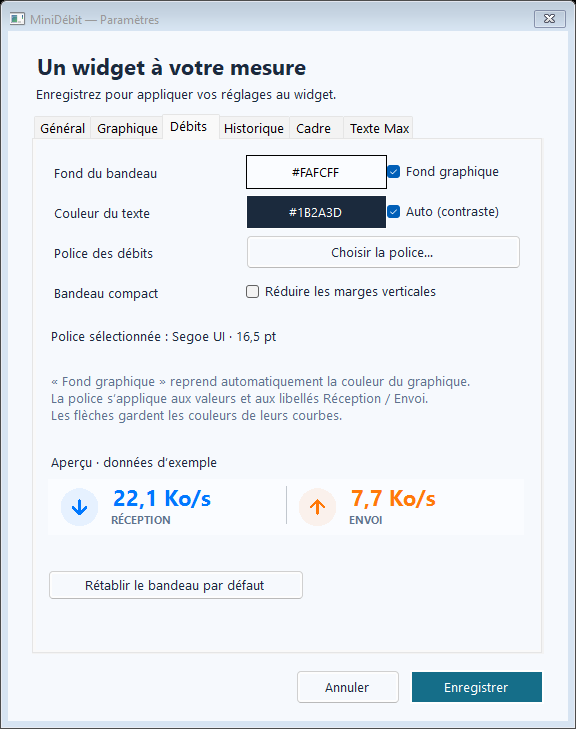
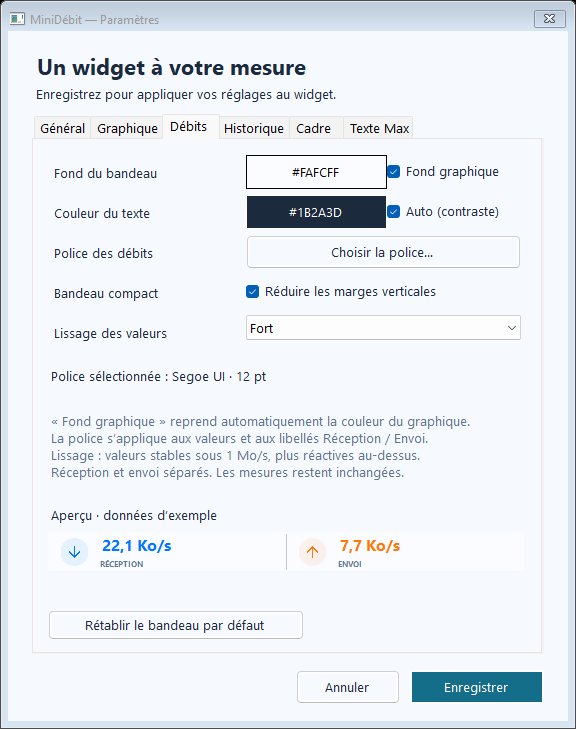
Ajoute le lissage et le profil initial
Intègre un profil de réglages par défaut et un lissage configurable des débits affichés, sans modifier les mesures. Ajuste aussi la largeur de l’axe aux graduations et documente ces changements.

diff --git a/Tests/Program.cs b/Tests/Program.cs
@@ -8,6 +8,37 @@ void Check(bool condition, string description)
     Console.WriteLine($"OK {++count:00} — {description}");
 }
 var now = DateTimeOffset.Now;
+var smooth = new RateSmoother();
+smooth.Update(new(now, 100, 50, 1), 1, true);
+Check(smooth.Down == 100 && smooth.Up == 50, "Le premier débit affiché ne part pas artificiellement de zéro");
+smooth.Update(new(now, 110, 55, 1), 1, true);
+Check(smooth.Down > 100 && smooth.Down < 110 && smooth.Up > 50 && smooth.Up < 55,
+    "Le lissage léger atténue les petites variations des deux débits");
+var fastRefresh = new RateSmoother(); fastRefresh.Update(new(now, 100, 50, 1), 1, true);
+for (int i = 0; i < 4; i++) fastRefresh.Update(new(now, 110, 55, .25), 1, true);
+Check(Math.Abs(fastRefresh.Down - smooth.Down) < .000001,
+    "Le lissage suit le temps réel : quatre mesures de 250 ms équivalent à une seconde");
+var strong = new RateSmoother(); strong.Update(new(now, 100, 50, 1), 3, true);
+strong.Update(new(now, 110, 55, 1), 3, true);
+Check(strong.Down < smooth.Down, "Le niveau fort stabilise davantage les petites transitions");
+strong.Update(new(now, 1000, 500, 1), 3, true);
+Check(strong.Down < 300 && strong.Up < 150, "Les sauts relatifs à faible débit ne court-circuitent plus le lissage fort");
+var adaptive = new RateSmoother(); adaptive.Update(new(now, 2_000_000, 100_000, 1), 3, true);
+adaptive.Update(new(now, 4_000_000, 200_000, 1), 3, true);
+Check(adaptive.Down > 3_400_000 && adaptive.Up < 110_000,
+    "Au-dessus de 1 Mo/s la réception réagit vite, sans accélérer un envoi faible");
+adaptive.Update(new(now, 0, 200_000, 1), 3, true);
+Check(adaptive.Down < 1_000_000, "La fin d’un gros transfert revient rapidement sous 1 Mo/s");
+var highFast = new RateSmoother(); highFast.Update(new(now, 2_000_000, 100_000, 1), 3, true);
+for (int i = 0; i < 4; i++) highFast.Update(new(now, 4_000_000, 200_000, .25), 3, true);
+Check(Math.Abs(highFast.Down - (2_000_000 + (1 - Math.Exp(-1 / .75)) * 2_000_000)) < .000001,
+    "La réactivité au-dessus du seuil reste indépendante de la fréquence des relevés");
+strong.Update(new(now, 800, 400, 1), 0, true);
+Check(strong.Down == 800 && strong.Up == 400, "Désactiver restitue immédiatement les mesures exactes");
+strong.Update(new(now, 800, 400, 1), 1, false);
+Check(strong.Down == 0 && strong.Up == 0, "Une interface indisponible remet les deux valeurs immédiatement à zéro");
+strong.Update(new(now, 30, 10, 1), 1, true);
+Check(strong.Down == 30 && strong.Up == 10, "La reconnexion reprend sans reliquat de l’ancienne interface");
 var weightedAverage = TrafficAverage.InWindow([new(now.AddSeconds(-3), 100, 20, 1), new(now, 300, 60, 3)], now, 60);
 Check(weightedAverage.Down == 250 && weightedAverage.Up == 50 && weightedAverage.Seconds == 4,
     "La moyenne pondère les débits par la durée réelle des mesures");
@@ -221,6 +252,12 @@ Check(rateSaved.Rates.BackgroundColor == "#102030" && rateSaved.Rates.TextColor 
     "Le fond, la couleur du texte et la police sont mémorisés indépendamment des mesures");
 Check(rateSaved.Rates.Background(rateSaved.Graph, true).ToArgb() == System.Drawing.Color.FromArgb(16, 32, 48).ToArgb(),
     "Une couleur explicite du bandeau reste indépendante du graphique");
+rateSaved.Rates.SmoothingLevel = 3; rateSaved.Save(path);
+Check(Settings.Load(path).Rates.SmoothingLevel == 3 && Settings.CreateDefaults().Rates.SmoothingLevel == 1,
+    "Le niveau choisi est mémorisé, avec le lissage léger par défaut pour les nouvelles installations");
+File.WriteAllText(path, "{\"Rates\":{\"Compact\":true}}");
+Check(Settings.Load(path).Rates.SmoothingLevel == 1 && Settings.Load(path).Rates.Compact,
+    "Une ancienne configuration active le lissage léger sans perdre ses réglages du bandeau");
 var unavailableFont = new RateAppearance { FontFamily = "MiniDebit police absente 123456", FontSizePixels = 18 };
 using (var replacement = unavailableFont.CreateFont()) Check(replacement.Name == "Segoe UI", "Une police absente utilise Segoe UI");
 File.WriteAllText(path, "{\"Rates\":null}");
@@ -228,6 +265,15 @@ Check(Settings.Load(path).Rates is not null, "Une ancienne configuration reçoit
 File.WriteAllText(path, "{invalide");
 Check(Settings.Load(path).IntervalMs == 1000, "Un fichier JSON corrompu restaure les valeurs par défaut");
 Check(Settings.Load(Path.Combine(directory, "absent.json")).AdapterId == "auto", "Première ouverture sans configuration");
+var firstInstall = Settings.Load(Path.Combine(directory, "absent.json"));
+Check(firstInstall.HistorySeconds == 180 && firstInstall.IntervalMs == 1000 && firstInstall.OpacityPercent == 90 &&
+    firstInstall.Width == 322 && firstInstall.Height == 174 && firstInstall.Rates.Compact && firstInstall.Rates.FontSizePixels == 16 &&
+    firstInstall.Graph.MaximumText.FontSizePixels == 11 && firstInstall.Graph.MarginPixels == 1 &&
+    firstInstall.X is null && firstInstall.Y is null,
+    "Une nouvelle installation utilise le profil capturé, sans position ni carte propres à ce PC");
+firstInstall.Graph.DownColor = "#112233";
+Check(Settings.CreateDefaults().Graph.DownColor == "#0078FF",
+    "Modifier une configuration ne modifie pas le profil intégré des futures installations");
 var monitor = new NetworkMonitor();
 var live = monitor.Poll("auto");
 Check(live.Down >= 0 && live.Up >= 0 && !string.IsNullOrEmpty(monitor.Status), "Lecture des interfaces Windows réelles");

diff --git a/Bandwidth/SettingsForm.cs b/Bandwidth/SettingsForm.cs
@@ -135,7 +135,7 @@ public sealed class SettingsForm : Form
         graph.Controls.Add(new Label { Text = "Aperçu · données d’exemple", Location = new Point(12, 380), AutoSize = true });
         var preview = new GraphPreview(ReadAppearance, () => theme.SelectedIndex == 0) { Location = new Point(12, 404), Size = new Size(476, 70) };
         graph.Controls.Add(preview);
-        var rateTable = Table(ratePage, 4, 40);
+        var rateTable = Table(ratePage, 5, 40);
         var rateBackground = new ColorField(settings.Rates.BackgroundColor, settings.Rates.Background(settings.Graph, settings.Dark), true, "Fond graphique");
         var rateText = new ColorField(settings.Rates.TextColor, settings.Rates.Text(settings.Graph, settings.Dark), true, "Auto (contraste)");
         var draftFont = new RateAppearance { FontFamily = settings.Rates.FontFamily, FontSizePixels = settings.Rates.FontSizePixels, Style = settings.Rates.Style };
@@ -145,18 +145,22 @@ public sealed class SettingsForm : Form
         Row(rateTable, 2, "Police des débits", chooseFont);
         var compact = new CheckBox { Text = "Réduire les marges verticales", Checked = settings.Rates.Compact, Dock = DockStyle.Fill };
         Row(rateTable, 3, "Bandeau compact", compact);
-        var fontDescription = new Label { Location = new Point(12, 187), Size = new Size(476, 30) };
+        var smoothing = Choice("Désactivé", "Léger", "Modéré", "Fort");
+        smoothing.SelectedIndex = settings.Rates.SmoothingLevel;
+        Row(rateTable, 4, "Lissage des valeurs", smoothing);
+        var fontDescription = new Label { Location = new Point(12, 227), Size = new Size(476, 30) };
         ratePage.Controls.Add(fontDescription);
-        ratePage.Controls.Add(new Label { Location = new Point(12, 232), Size = new Size(476, 62), ForeColor = Color.FromArgb(94, 115, 141),
-            Text = "« Fond graphique » reprend automatiquement la couleur du graphique.\nLa police s’applique aux valeurs et aux libellés Réception / Envoi.\nLes flèches gardent les couleurs de leurs courbes." });
+        ratePage.Controls.Add(new Label { Location = new Point(12, 272), Size = new Size(476, 80), ForeColor = Color.FromArgb(94, 115, 141),
+            Text = "« Fond graphique » reprend automatiquement la couleur du graphique.\nLa police s’applique aux valeurs et aux libellés Réception / Envoi.\nLissage : valeurs stables sous 1 Mo/s, plus réactives au-dessus.\nRéception et envoi séparés. Les mesures restent inchangées." });
         RateAppearance ReadRates() => new()
         {
             BackgroundColor = rateBackground.Value, TextColor = rateText.Value,
-            FontFamily = draftFont.FontFamily, FontSizePixels = draftFont.FontSizePixels, Style = draftFont.Style, Compact = compact.Checked
+            FontFamily = draftFont.FontFamily, FontSizePixels = draftFont.FontSizePixels, Style = draftFont.Style, Compact = compact.Checked,
+            SmoothingLevel = smoothing.SelectedIndex
         };
-        ratePage.Controls.Add(new Label { Text = "Aperçu · données d’exemple", Location = new Point(12, 313), AutoSize = true });
+        ratePage.Controls.Add(new Label { Text = "Aperçu · données d’exemple", Location = new Point(12, 366), AutoSize = true });
         var ratePreview = new RatePreview(ReadRates, ReadAppearance, () => theme.SelectedIndex == 0)
-            { Location = new Point(12, 339), Size = new Size(476, 48) };
+            { Location = new Point(12, 392), Size = new Size(476, 48) };
         ratePage.Controls.Add(ratePreview);
         var frameTable = Table(framePage, 4, 40);
         var frameEnabled = new CheckBox { Text = "Afficher le cadre", Checked = settings.Frame.Enabled, Dock = DockStyle.Fill };
@@ -217,12 +221,13 @@ public sealed class SettingsForm : Form
             draftFont.Normalize();
             RefreshRates();
         };
-        var resetRates = new Button { Text = "Rétablir le bandeau par défaut", Location = new Point(12, 430), Size = new Size(256, 30) };
+        var resetRates = new Button { Text = "Rétablir le bandeau par défaut", Location = new Point(12, 470), Size = new Size(256, 30) };
         ratePage.Controls.Add(resetRates);
         resetRates.Click += (_, _) =>
         {
             draftFont = new RateAppearance();
             compact.Checked = false;
+            smoothing.SelectedIndex = 1;
             rateBackground.Value = ""; rateText.Value = "";
             RefreshRates();
         };

diff --git a/Bandwidth/Widget.cs b/Bandwidth/Widget.cs
@@ -10,6 +10,8 @@ public sealed class Widget : Form
     private readonly Settings settings;
     private readonly bool diagnostic;
     private readonly NetworkMonitor monitor = new();
+    private readonly RateSmoother displayedRates = new();
+    private string displayedAdapter = "";
     private readonly PublicIpv4 publicIpv4 = new();
     private readonly WindowDrag drag = new();
     private readonly HistoryRecorder recorder;
@@ -115,6 +117,8 @@ public sealed class Widget : Form
     private void ApplySettings()
     {
         settings.Normalize();
+        if (displayedRates.Level != settings.Rates.SmoothingLevel)
+            displayedRates.Update(current, settings.Rates.SmoothingLevel, monitor.ActiveAdapterKey.Length > 0);
         publicIpv4.Update(monitor.PublicIpv4Target, settings.ShowPublicIpv4);
         recorder.Configure(settings.Storage);
         var numbers = settings.Rates.CreateFont();
@@ -132,6 +136,9 @@ public sealed class Widget : Form
     private void Tick()
     {
         current = monitor.Poll(settings.AdapterId);
+        if (displayedAdapter != monitor.ActiveAdapterKey) displayedRates.Reset();
+        displayedAdapter = monitor.ActiveAdapterKey;
+        displayedRates.Update(current, settings.Rates.SmoothingLevel, displayedAdapter.Length > 0);
         publicIpv4.Update(monitor.PublicIpv4Target, settings.ShowPublicIpv4);
         recorder.Record(current, monitor.ActiveAdapterKey, monitor.Status, settings.IntervalMs);
         SampleCount++;
@@ -194,6 +201,8 @@ public sealed class Widget : Form
             history.Enqueue(new Sample(now.AddSeconds((i - 120) * settings.HistorySeconds / 120.0), down, up, settings.HistorySeconds / 120.0));
         }
         current = history.Last();
+        displayedRates.Reset();
+        displayedRates.Update(current, settings.Rates.SmoothingLevel, true);
         visiblePeak = TrafficPeak.InWindow(history, now, settings.HistorySeconds);
         visibleAverage = TrafficAverage.InWindow(history, now, settings.HistorySeconds);
         scale = 500000;
@@ -229,16 +238,16 @@ public sealed class Widget : Form
         DashboardRenderer.Statistics(g, new RectangleF(margin + 24, headerHeight + inset + 8, w - 2 * margin - 24, statisticsHeight),
             settings.Graph, settings.Dark, visiblePeak, visibleAverage, settings.Bits);
         float chartTop = headerHeight + inset + statisticsHeight + 16;
-        float axisWidth = Math.Max(28, g.MeasureString(Units.Rate(scale, settings.Bits).Split(' ')[0], smallFont).Width + 8);
-        var chart = new RectangleF(margin + axisWidth, chartTop, w - 2 * margin - axisWidth,
+        float chartLeft = inset + settings.Graph.MarginPixels + 3 + DashboardRenderer.AxisWidth(g, scale, settings.Bits, smallFont);
+        var chart = new RectangleF(chartLeft, chartTop, w - margin - chartLeft,
             Math.Max(1, h - chartTop - rateHeight - inset - 12 - verticalMargin));
         GraphRenderer.Backdrop(g, chart, settings.Graph, settings.Dark);
         DrawSeries(g, chart, false, UpColor);
         DrawSeries(g, chart, true, DownColor);
         DashboardRenderer.Guides(g, chart, settings.Graph, visiblePeak, visibleAverage, scale);
         DashboardRenderer.Axes(g, chart, scale, settings.Bits, Muted, smallFont);
-        RateRenderer.Draw(g, new RectangleF(inset, h - rateHeight - inset, w - 2 * inset, rateHeight), Units.Rate(current.Down, settings.Bits),
-            Units.Rate(current.Up, settings.Bits), settings.Rates, settings.Graph, settings.Dark, rateFont, labelFont, arrowFont);
+        RateRenderer.Draw(g, new RectangleF(inset, h - rateHeight - inset, w - 2 * inset, rateHeight), Units.Rate(displayedRates.Down, settings.Bits),
+            Units.Rate(displayedRates.Up, settings.Bits), settings.Rates, settings.Graph, settings.Dark, rateFont, labelFont, arrowFont);
         if (HeaderVisible)
         {
             using var grip = new Pen(Muted, 1);
@@ -435,7 +444,7 @@ public sealed class Widget : Form
     }
 
     private void ToggleVisibility() { if (Visible) Hide(); else { Show(); Activate(); } }
-    private void ResetMeasurements() { monitor.Reset(); history.Clear(); current = default; Tick(); }
+    private void ResetMeasurements() { monitor.Reset(); displayedRates.Reset(); history.Clear(); current = default; Tick(); }
 
     private void OpenSettings()
     {

diff --git a/Bandwidth/DashboardRenderer.cs b/Bandwidth/DashboardRenderer.cs
@@ -57,21 +57,33 @@ internal static class DashboardRenderer
         }
     }
 
+    private static string[] AxisLabels(double scale, bool bits, int ticks)
+    {
+        double maximum = scale * (bits ? 8 : 1);
+        int unit = 0;
+        while (maximum >= 1000 && unit < 4) { maximum /= 1000; unit++; }
+        return Enumerable.Range(0, ticks + 1).Select(i =>
+            (maximum * (ticks - i) / ticks).ToString("0.#", CultureInfo.CurrentCulture)).ToArray();
+    }
+
+    public static float AxisWidth(Graphics g, double scale, bool bits, Font font)
+    {
+        using var format = new StringFormat(StringFormat.GenericTypographic);
+        // Measure every tick: intermediate decimal values can exceed the top label.
+        return (float)Math.Ceiling(AxisLabels(scale, bits, 4).Max(label =>
+            g.MeasureString(label, font, int.MaxValue, format).Width)) + 3;
+    }
+
     public static void Axes(Graphics g, RectangleF chart, double scale, bool bits, Color muted, Font font)
     {
-        // One common unit keeps all five ticks directly comparable.
-        double factor = bits ? 8 : 1;
-        double maximum = scale * factor;
-        string[] units = bits ? ["bit/s", "kbit/s", "Mbit/s", "Gbit/s", "Tbit/s"] : ["o/s", "Ko/s", "Mo/s", "Go/s", "To/s"];
-        int unit = 0;
-        while (maximum >= 1000 && unit < units.Length - 1) { maximum /= 1000; unit++; }
         using var brush = new SolidBrush(muted);
-        using var format = new StringFormat { Alignment = StringAlignment.Far, LineAlignment = StringAlignment.Center };
+        using var format = new StringFormat(StringFormat.GenericTypographic)
+        { Alignment = StringAlignment.Far, LineAlignment = StringAlignment.Center };
         int ticks = chart.Height < 65 ? 2 : 4;
+        var labels = AxisLabels(scale, bits, ticks);
         for (int i = 0; i <= ticks; i++)
         {
-            string value = (maximum * (ticks - i) / ticks).ToString("0.#", CultureInfo.CurrentCulture);
-            g.DrawString(value, font, brush, new RectangleF(0, chart.Top + chart.Height * i / ticks - 8, chart.Left - 7, 16), format);
+            g.DrawString(labels[i], font, brush, new RectangleF(0, chart.Top + chart.Height * i / ticks - 8, chart.Left - 3, 16), format);
         }
         using var axis = new Pen(Color.FromArgb(110, muted), .7f);
         g.DrawLine(axis, chart.Left, chart.Top, chart.Left, chart.Bottom);

diff --git a/Bandwidth/RateSmoother.cs b/Bandwidth/RateSmoother.cs
@@ -1,0 +1,43 @@
+namespace MiniDebit;
+
+// Display-only filter. Measurements and persisted samples never pass through it.
+public sealed class RateSmoother
+{
+    public const double ResponsiveThreshold = 1_000_000; // Decimal Mo/s, like the widget units.
+    private bool initialized;
+    private int previousLevel = -1;
+    public int Level => previousLevel;
+    public double Down { get; private set; }
+    public double Up { get; private set; }
+
+    public void Reset() { initialized = false; Down = Up = 0; }
+
+    public void Update(Sample sample, int level, bool connected)
+    {
+        level = Math.Clamp(level, 0, 3);
+        if (!connected || !double.IsFinite(sample.ElapsedSeconds) || sample.ElapsedSeconds <= 0)
+        { Reset(); previousLevel = level; return; }
+        double down = Clean(sample.Down), up = Clean(sample.Up);
+        if (!initialized || level == 0 || level != previousLevel)
+        { Down = down; Up = up; initialized = true; }
+        else
+        {
+            Down = Smooth(Down, down, level, sample.ElapsedSeconds);
+            Up = Smooth(Up, up, level, sample.ElapsedSeconds);
+        }
+        previousLevel = level;
+    }
+
+    private static double Clean(double value) => double.IsFinite(value) ? Math.Max(0, value) : 0;
+    private static double Smooth(double previous, double measured, int level, double elapsed)
+    {
+        // Including the previous display also makes the end of a large transfer responsive.
+        bool highThroughput = Math.Max(previous, measured) >= ResponsiveThreshold;
+        double seconds = highThroughput
+            ? level switch { 1 => .35, 2 => .5, _ => .75 }
+            : level switch { 1 => 5, 2 => 8, _ => 12 };
+        double alpha = 1 - Math.Exp(-elapsed / seconds);
+        double value = previous + alpha * (measured - previous);
+        return measured == 0 && value < .5 ? 0 : value;
+    }
+}

diff --git a/Bandwidth/Program.cs b/Bandwidth/Program.cs
@@ -22,8 +22,8 @@ internal static class Program
         var report = Argument(args, "--smoke-report");
         if (captureSettings is not null || captureGraphSettings is not null || captureRateSettings is not null || captureHistorySettings is not null || captureFrameSettings is not null || captureMaximumSettings is not null)
         {
-            var captureConfiguration = diagnosticSettings is null ? new Settings() : Settings.Load(diagnosticSettings);
-            captureConfiguration.Rates.Compact = args.Contains("--compact");
+            var captureConfiguration = diagnosticSettings is null ? Settings.CreateDefaults() : Settings.Load(diagnosticSettings);
+            if (args.Contains("--compact")) captureConfiguration.Rates.Compact = true;
             using var dialog = new SettingsForm(captureConfiguration, SystemIcons.Application);
             if (captureGraphSettings is not null) dialog.SelectGraphTab();
             if (captureRateSettings is not null) dialog.SelectRatesTab();
@@ -52,11 +52,11 @@ internal static class Program
             return 0;
         }
         bool diagnostic = capture is not null || captureHover is not null || report is not null;
-        var settings = diagnostic ? diagnosticSettings is null ? new Settings() : Settings.Load(diagnosticSettings) : Settings.Load();
+        var settings = diagnostic ? diagnosticSettings is null ? Settings.CreateDefaults() : Settings.Load(diagnosticSettings) : Settings.Load();
         if (diagnostic)
         {
             settings.AlwaysOnTop = false;
-            settings.Rates.Compact = args.Contains("--compact");
+            if (args.Contains("--compact")) settings.Rates.Compact = true;
             settings.Storage.Enabled = historyPath is not null;
         }
         using var window = new Widget(settings, diagnostic, diagnostic ? historyPath : null);

diff --git a/Bandwidth/Settings.cs b/Bandwidth/Settings.cs
@@ -55,12 +55,21 @@ public sealed class Settings
     {
         try
         {
-            var result = JsonSerializer.Deserialize<Settings>(File.ReadAllText(path ?? FilePath)) ?? new Settings();
+            var result = JsonSerializer.Deserialize<Settings>(File.ReadAllText(path ?? FilePath)) ?? CreateDefaults();
             result.Normalize();
             return result;
         }
         catch (Exception ex) when (ex is IOException or UnauthorizedAccessException or JsonException)
-        { return new Settings(); }
+        { return CreateDefaults(); }
+    }
+
+    public static Settings CreateDefaults()
+    {
+        using var profile = typeof(Settings).Assembly.GetManifestResourceStream("MiniDebit.DefaultSettings")
+            ?? throw new InvalidOperationException("Profil par défaut MiniDébit introuvable.");
+        var result = JsonSerializer.Deserialize<Settings>(profile) ?? new Settings();
+        result.Normalize();
+        return result;
     }
 
     public void Save(string? path = null)

diff --git a/Bandwidth/RateAppearance.cs b/Bandwidth/RateAppearance.cs
@@ -9,6 +9,7 @@ public sealed class RateAppearance
     public double FontSizePixels { get; set; } = 18;
     public int Style { get; set; } = (int)FontStyle.Bold;
     public bool Compact { get; set; }
+    public int SmoothingLevel { get; set; } = 1;
 
     public void Normalize()
     {
@@ -17,6 +18,7 @@ public sealed class RateAppearance
         FontFamily = string.IsNullOrWhiteSpace(FontFamily) ? "Segoe UI" : FontFamily.Trim();
         FontSizePixels = double.IsFinite(FontSizePixels) ? Math.Clamp(FontSizePixels, 8, 24) : 18;
         Style &= 15;
+        SmoothingLevel = Math.Clamp(SmoothingLevel, 0, 3);
     }
 
     public Color Background(GraphAppearance graph, bool dark) => GraphAppearance.Resolve(BackgroundColor, graph.Background(dark));

diff --git a/README.md b/README.md
@@ -35,6 +35,12 @@ La distribution inclut le programme, ses fichiers .NET et ce guide ; elle n’em
 
 La position, les dimensions et les paramètres sont mémorisés dans `%LOCALAPPDATA%\MiniDebit\settings.json`. Fermer l’application puis supprimer ce fichier pour retrouver les valeurs par défaut.
 
+Les nouvelles installations utilisent le profil intégré `Bandwidth/Assets/default-settings.json`, repris des réglages du widget : format 322 × 174, thème clair, opacité 90 %, bandeau compact, police des débits 16 px, texte Max 11 px, période 3 minutes et mesures toutes les secondes. La carte est choisie automatiquement et la position est calculée pour le nouvel écran. Les réglages déjà enregistrés restent prioritaires. Le profil est inclus dans le programme, sans fichier supplémentaire à installer.
+
+**Débits → Lissage des valeurs** propose Désactivé, Léger (par défaut), Modéré et Fort. Il stabilise uniquement les deux débits sous la courbe. Les mesures, SQLite, le graphique, Max, Moyenne et les informations de débit de la zone de notification restent réels. Sous **1 Mo/s (1 000 000 octets/s)**, les constantes de temps sont de 5, 8 et 12 secondes ; au-dessus, elles passent à 0,35, 0,5 et 0,75 seconde pour réagir rapidement. Réception et envoi sont traités séparément. Le retour depuis un débit élevé est également rapide. Le filtre suit la durée réellement écoulée, indépendamment de la fréquence des mesures et du choix octets/bits. Les petits débits ne sont plus accélérés par les variations relatives de plus de 50 %. Une interface indisponible remet les valeurs à zéro au prochain relevé ; la première mesure, un changement de carte et une remise à zéro repartent sans ancienne valeur résiduelle.
+
+L’espace à gauche du graphique est calculé selon la largeur réelle des graduations, avec 3 px entre le texte et l’axe. Le réglage de marge reste applicable ; les graduations décimales et les unités en bits sont prises en compte.
+
 Au survol, le nom de la carte peut afficher son **IPv4 publique entre parenthèses**, par exemple `Ethernet 2 (203.0.113.42)`. **Général → Adresse externe → Afficher l’IPv4 publique**, activé par défaut, permet d’activer ou de désactiver cette information. Désactiver masque immédiatement l’adresse et annule la recherche en cours ; aucune nouvelle requête n’est lancée.
 
 La recherche HTTPS utilise le service [ipify](https://www.ipify.org), en arrière-plan, au lancement, lorsque la carte ou son IPv4 locale change, puis toutes les dix minutes. Le socket est lié à l’IPv4 locale et à l’interface Windows sélectionnée ; aucun proxy système ni basculement sur une autre carte n’est utilisé. Après un échec, le délai avant réessai est d’une minute, avec huit secondes maximum par tentative. L’IPv4 publique est celle observée par le service sur cette connexion : elle peut appartenir au routeur ou à une sortie VPN, et différer de l’IPv4 locale de la carte.
